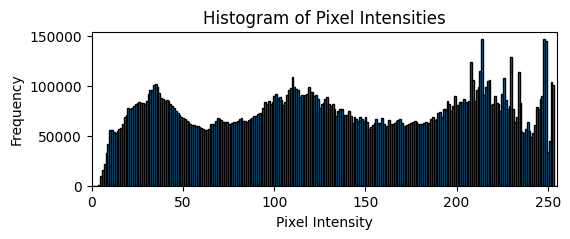
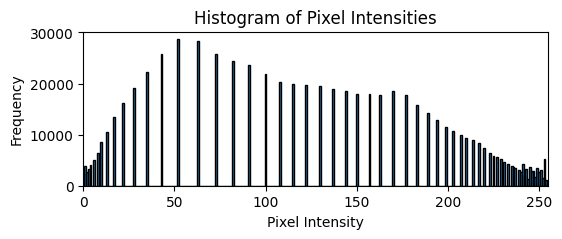
Add history toggle

diff --git a/window.py b/window.py
@@ -24,6 +24,7 @@ class Window:
         self.historyThumbnails = []
         self.imageThumbnail = None
         self.image = None
+        self.historyToggle = False
 
         self.setWindowMain()
         self.frameActive = self.frameImage # Track active frame for switching
@@ -77,13 +78,16 @@ class Window:
         """Configure the top toolbar frame with buttons and dropdown."""
         # Kernel kernel dropdown selection dropdown variable
         self.kernelDropdownSelection = tk.StringVar()
-        self.kernelDropdownSelection.set("Select Default Kernel")
+        self.kernelDropdownSelection.set("Kernel Selection")
 
         # Create buttons
         self.buttonLoad = tk.Button(self.frameToolbar, text="Load Image", command=self.loadImage)
         self.buttonSave = tk.Button(self.frameToolbar, text="Save Image", command=self.saveImage)
-        self.buttonConvulge = tk.Button(self.frameToolbar, text="Apply Filter", command=self.applyKernelToImage)
+        self.buttonConvulge = tk.Button(self.frameToolbar, text="Convulge via Kernel", command=self.applyKernelToImage)
         self.buttonKernelEdit = tk.Button(self.frameToolbar, text="Edit Kernel", command=self.toggleWindowKernel)
+        self.buttonHistEqualization = tk.Button(self.frameToolbar, text="Equalize", command=self.getEqualization)
+        self.buttonCompare = tk.Button(self.frameToolbar, text="Compare", command=self.toggleOriginalImage)
+
         # Create kernel list dropdown
         self.kernelDropdown = tk.OptionMenu(
                 self.frameToolbar, 
@@ -95,6 +99,8 @@ class Window:
         # Place widgets
         self.buttonLoad.pack(side="left", padx=4, pady=4)
         self.buttonSave.pack(side="left", padx=4, pady=4)
+        self.buttonCompare.pack(side="left", padx=4, pady=4)
+        self.buttonHistEqualization.pack(side="left", padx=4, pady=4)
         self.buttonConvulge.pack(side="left", padx=4, pady=4)
         self.kernelDropdown.pack(side="left", padx=4, pady=4)
         self.buttonKernelEdit.pack(side="left", padx=4, pady=4)
@@ -309,15 +315,8 @@ class Window:
         filepath = filedialog.askopenfilename()
         if filepath:
             colorImage = access.loadImage(filepath)
-            self.image = process.grayscale(colorImage)
-            self.imageThumbnail = access.prepImageForWindow(self.image)
-            self.getHist()
-            if self.imageThumbnail:
-                self.imageLabel.config(image=self.imageThumbnail, text="")
-                self.history.append(self.image.copy())
-                self.updateHistoryThumbnails()
-            else:
-                self.imageLabel.config(text="Failed to load image.")
+            grayscaleImage = process.grayscale(colorImage)
+            self.updateImage(grayscaleImage)
 
     def loadHist(self):
         filepath = "temp/hist.png"
@@ -343,16 +342,7 @@ class Window:
 
         kernel = self.getMatrixFromUI()
         resultingImage = process.applyKernelToImage(self.image, kernel)
-
-        self.imageThumbnail = access.prepImageForWindow(resultingImage) # Create thumbnail to be displayed
-        self.imageLabel.config(image=self.imageThumbnail)
-        self.image = resultingImage # Store updated image
-
-        self.history.append(self.image.copy())
-        self.updateHistoryThumbnails()
-
-        self.getHist()
-
+        self.updateImage(resultingImage)
         print("Image processing complete.")
 
     def getHist(self):
@@ -364,13 +354,46 @@ class Window:
         # Ensure the index is valid
         if 0 <= index < len(self.history):
             # Restore the image from the history at the given index
-            self.image = self.history[index]
-            self.imageThumbnail = access.prepImageForWindow(self.image)  # Create a new thumbnail
-            self.imageLabel.config(image=self.imageThumbnail)  # Update the displayed image
-            self.getHist()
+            previousImage = self.history[index]
+            self.updateImage(previousImage)
+            self.histIndexPointer = index
             print(f"Restored image from history at index {index}.")
         else:
             print("Invalid history index.")
+
+    def getEqualization(self):
+        resultingImage = process.histEqualization(self.image)
+        self.updateImage(resultingImage)
+
+    def updateImage(self, newImage, updateHistory=True):
+        # Update displayed image
+        self.imageThumbnail = access.prepImageForWindow(newImage) # Create thumbnail to be displayed
+        self.imageLabel.config(image=self.imageThumbnail)
+        self.image = newImage
+        print("Image updated.")
+
+        if updateHistory:
+            # Update history panel
+            self.history.append(self.image.copy())
+            self.updateHistoryThumbnails()
+            print("History updated.")
+
+        # Update histogram
+        self.getHist()
+        print("Histogram updated.")
+
+    def toggleOriginalImage(self):
+        if self.historyToggle == False:
+            self.imagePlaceholder = self.image
+            self.historyToggle = True
+            self.updateImage(self.history[0], False)
+            print("Comparison toggle -> Original")
+        else:
+            self.updateImage(self.imagePlaceholder, False)
+            self.imagePlaceholder = None
+            self.historyToggle = False
+            print("Comparison toggle -> Recent")
+            
 
 if __name__ == "__main__":
     default = Window()

diff --git a/process.py b/process.py
@@ -1,4 +1,4 @@
-from PIL import Image
+from PIL import Image, ImageOps
 import numpy as np
 from scipy.signal import convolve2d # Maybe?
 import matplotlib.pyplot as plt
@@ -64,3 +64,7 @@ def generateHistogramPlot(hist, bins):
     ax.set_xlabel("Pixel Intensity")
     ax.set_ylabel("Frequency")
     return fig
+
+def histEqualization(image):
+    equalizedImage = ImageOps.equalize(image)
+    return equalizedImage
